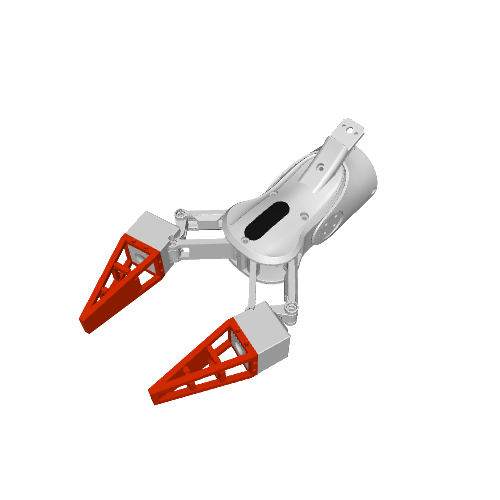
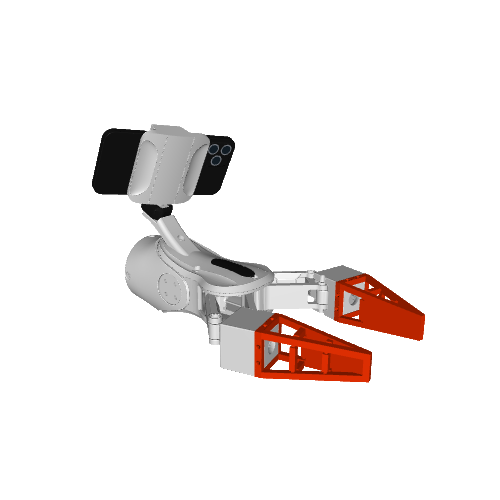
Share the iPhone mount with the asMagiClaw end-effector

Changed region(s): [[0.15, 0.24, 0.87, 0.81]]

diff --git a/generate_gallery.py b/generate_gallery.py
@@ -158,6 +158,7 @@ AUTO_PADDING = 1.08
 # quat), so we view them from ~20–-30° (front-right of +X).
 # Per-robot view angle override, falling back to VIEW_ANGLES[category].
 VIEW_ANGLE_OVERRIDE = {
+  'asmagiclaw/asmagiclaw': (-50, 18),
   'asmagiclaw/asmagiclaw_handheld': (-50, 18),
   # Default biomechanical angle catches MS-Human-700 from the side; nudge
   # to a near-frontal 3/4.

diff --git a/asmagiclaw/README.md b/asmagiclaw/README.md
@@ -2,7 +2,8 @@
 
 asMagiClaw is a motor-driven two-finger gripper developed by the Design and
 Learning Research Group. The two configurations share the same four-bar
-linkage and rigid fingertip contact model.
+linkage, rigid fingertip contact model, and iPhone 12 Pro assembly with a cold
+shoe, phone holder, and rear camera.
 [MagiClaw project and paper](https://arxiv.org/abs/2509.19169)
 
 | Configuration | Workbench scene | Reusable model |
@@ -13,15 +14,16 @@ linkage and rigid fingertip contact model.
 
 ## First-person view
 
-Open the [handheld project in Studio](https://asimplemagic.com/?sample=asmagiclaw-handheld).
-In the simulator, choose `iphone_12_pro_rear` under **Rendering → Camera**.
-Choose **Free: tumble** to return to the orbit view. With the viewport focused,
-`]` cycles through the camera options. The camera is fixed to the published
-rear lens frame and faces the fingers in landscape orientation.
+The [Handheld link](https://asimplemagic.com/?sample=asmagiclaw-handheld) opens
+`scene_handheld_umi.xml` directly. Under **Rendering → Camera**, choose
+`gripper_iphone_12_pro_rear`. In the [Gripper workbench](https://asimplemagic.com/?sample=asmagiclaw)
+and the fixed handheld scene, choose `iphone_12_pro_rear`. Choose **Free: tumble**
+to return to orbit. With the viewport focused, `]` cycles through the camera
+options. The camera is fixed to the published rear lens frame and faces the
+fingers in landscape orientation.
 
-For the UMI-style workbench, select `scene_handheld_umi.xml` under **Entry model**
-and choose **Apply**. Select `gripper_iphone_12_pro_rear` in the same camera menu.
-Press **Run** and open **Inspector → Controls**. Use `handheld_x`, `handheld_y`, and `handheld_z`
+In the UMI-style workbench, press **Run** and open **Inspector → Controls**.
+Use `handheld_x`, `handheld_y`, and `handheld_z`
 for translation, and `handheld_roll`, `handheld_pitch`, and `handheld_yaw`
 for rotation. Use `gripper_claw_beam` to move the fingers. Like the Menagerie
 UMI scene, the gripper and its camera move together through six pose axes.
@@ -51,7 +53,7 @@ Six hinge coordinates describe the linkages. A joint equality synchronizes the
 two driven beams, and two point equalities close the follower loops. The
 mechanism has one independent motion. The position actuator is bounded to
 ±3 N·m. The printed parts use CAD-derived PLA mass and inertia estimates. The
-handheld mount uses the published CAD transforms. The phone has the original
+shared mount uses the published CAD transforms. The phone has the original
 reference mesh, a 189 g mass, and box inertia from Apple's handset dimensions.
 Bracket inertias use the source CAD estimates. The contact model treats the
 MetaFinger surfaces as rigid. [iPhone 12 Pro specifications](https://support.apple.com/en-us/111875)

diff --git a/asmagiclaw/CHANGELOG.md b/asmagiclaw/CHANGELOG.md
@@ -2,6 +2,9 @@
 
 ## 2026-11-25
 
+- Shared the iPhone 12 Pro, mount, and rear camera with the flange-mounted
+  gripper. The Handheld link opens the six-axis workbench in Studio.
+
 - Added the handheld workbench with the original handle, trigger, cold shoe,
   holder, and iPhone 12 Pro reference mesh.
 - Shared the gripper linkage between both variants and verified opening,
